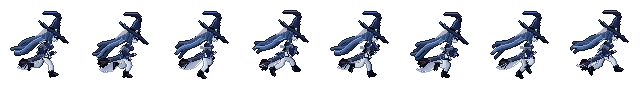
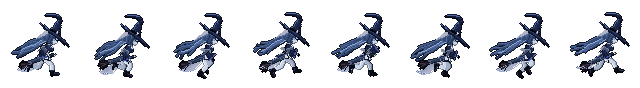
에스카 달리기 무게중심을 낮추고 뒷머리를 더 자연스러운 가닥으로, 대시를 더 낮게 (기획서 0.30)
Claude-Session: https://claude.ai/code/session_014QTsqSnFBNjsgiSz2QVxpP

diff --git a/tools/eska_anim.py b/tools/eska_anim.py
@@ -18,11 +18,11 @@ def lerp(a, b, t):
 
 
 # ---------------------------------------------------------------- 달리기 (8프레임, 질주)
-# 상체를 26° 숙이고 낮게. 다리 역할: 앞다리 F0 착지 → F1 체중 실음(가장 낮음) → F2 밀어냄 → F3 발끝으로 차고 나감(뒤로 길게)
+# 상체를 28° 숙이고 무게중심을 낮게. 다리 역할: 앞다리 F0 착지 → F1 체중 실음(가장 낮음) → F2 밀어냄 → F3 발끝으로 차고 나감(뒤로 길게)
 # / 뒷다리 B0 발꿈치를 차올림 → B1 엉덩이까지 접음 → B2 무릎을 높이 듦 → B3 앞으로 뻗음
-F = [((6.0, 7.5), (7.0, 16.2), -12), ((5.5, 7.0), (1.0, 15.5), 5), ((2.0, 8.8), (-4.0, 16.3), 25), ((-3.0, 8.6), (-11.5, 13.0), 65)]
-B = [((-3.5, 8.3), (-12.0, 8.0), 88), ((1.0, 8.5), (-7.0, 6.0), 92), ((8.5, 3.5), (3.0, 9.5), 45), ((8.5, 4.3), (12.0, 12.0), -8)]
-BOB = [3, 4, 3, 2]
+F = [((7.0, 5.5), (8.0, 13.8), -12), ((6.5, 5.5), (1.5, 13.0), 5), ((2.5, 7.8), (-4.0, 14.0), 25), ((-3.0, 8.0), (-11.5, 12.5), 65)]
+B = [((-4.0, 7.8), (-12.5, 7.0), 88), ((1.0, 8.0), (-7.5, 5.0), 92), ((8.5, 3.0), (3.0, 9.0), 45), ((8.5, 3.8), (12.5, 11.5), -8)]
+BOB = [5, 6, 5, 4]  # 무게중심을 낮게: 엉덩이를 5~6px 내리고 디딤 무릎을 깊게 굽힘
 # 팔: 팔꿈치를 굽혀 크게 흔듦 (가까운 다리가 앞에 닿을 때 가까운 팔은 뒤로)
 ARM = [((-6.0, 4.0), (-5.5, 10.5)), ((-4.0, 6.0), (-1.5, 11.5)), ((-1.0, 7.0), (3.0, 11.0)), ((2.0, 6.5), (6.5, 8.0)),
        ((3.5, 5.5), (7.5, 2.5)), ((2.0, 6.5), (6.5, 8.0)), ((-1.0, 7.0), (3.0, 11.0)), ((-4.0, 6.0), (-1.5, 11.5))]
@@ -37,7 +37,7 @@ def run_frames():
         near, far = (F[ph], B[ph]) if i < 4 else (B[ph], F[ph])
         elbow, wrist = ARM[i]
         fr.append(S.pose(
-            by=BOB[ph], lean_deg=26 + (1 if ph == 1 else 0), near=near, far=far, elbow=elbow, wrist=wrist,
+            by=BOB[ph], lean_deg=28 + (1 if ph == 1 else 0), near=near, far=far, elbow=elbow, wrist=wrist,
             hair=(-8 + w, -6, -17 + 2 * w, -14 + 1.5 * w2), skirt=(0.5, -1.0 + 0.5 * w2, -3.5, -3 - 0.8 * w),
             over=(-15 + 2 * w, -10 + 1.5 * w2), veil=(-10 + w, -5 + w2), sword=20 + 5 * w2, fringe=-5, drip=False))
     return fr
@@ -79,13 +79,13 @@ DJUMP = {
 
 # ---------------------------------------------------------------- 돌진 대시: 몸을 깊이 숙이고 머리·치마·베일이 뒤로 길게 날림
 DASH = {
-    "dash_start": P(by=2, lean_deg=20, near=((6.0, 6.0), (3.0, 14.0), 10), far=((-3.0, 9.0), (-9.0, 15.0), 40),
+    "dash_start": P(by=4, lean_deg=22, near=((7.0, 5.5), (4.0, 13.0), 10), far=((-3.0, 8.0), (-9.5, 13.0), 45),
                     elbow=(-4.0, 4.0), wrist=(-8.0, 7.0), hair=(-6, -3, -12, -8), skirt=(0, -1, -3, -2), over=(-10, -6),
                     veil=(-6, -2), sword=15, fringe=-4),
-    "dash": P(by=4, lean_deg=30, near=((7.0, 5.0), (5.0, 13.0), 0), far=((-5.0, 8.0), (-12.0, 12.0), 60),
+    "dash": P(by=7, lean_deg=34, near=((8.5, 3.5), (8.0, 12.0), 0), far=((-6.0, 6.5), (-14.0, 9.5), 60),
               elbow=(-5.0, 3.0), wrist=(-10.0, 5.0), hair=(-8, -6, -18, -14), skirt=(0, -1.5, -4, -3), over=(-16, -12),
               veil=(-9, -4), sword=25, fringe=-5, drip=False),
-    "dash_end": P(by=1, lean_deg=12, near=((4.0, 8.0), (2.0, 16.5), 0), far=((-2.0, 9.0), (-6.0, 16.0), 30),
+    "dash_end": P(by=3, lean_deg=16, near=((5.0, 6.5), (2.5, 15.5), 0), far=((-2.0, 8.0), (-6.5, 15.0), 30),
                   elbow=(-1.0, 6.5), wrist=(1.5, 12.5), hair=(-4, -2, -8, -6), skirt=(0, -0.5, -1.5, -1), over=(-6, -3),
                   veil=(-3, -1), sword=8, fringe=-2),
 }

diff --git a/tools/eska_sprite.py b/tools/eska_sprite.py
@@ -391,24 +391,29 @@ def hair(p):
         tl = math.hypot(tx, ty) or 1
         return (x, y), (ty / tl, -tx / tl)
     # 가닥: (퍼짐 위치, 길이, 뿌리 폭, 위상 차, 색, 테두리색) — 뒤 가닥부터 그린다
+    # (퍼짐 위치, 길이, 뿌리 폭, 위상 차, 물결 빠르기, 색, 윗면 빛) — 뒤 가닥부터
     STRANDS = [
-        (-2.6, 0.90, 2.0, 0.9, "hair_d", "hair"),
-        (2.2, 0.96, 2.0, 0.3, "hair_d", "hair"),
-        (-1.0, 1.00, 2.4, 0.0, "hair", "hair_l"),
-        (1.0, 0.86, 2.2, 1.6, "hair", "hair_l"),
-        (-3.6, 0.78, 1.6, 2.3, "hair", "hair_l"),
-        (0.0, 0.94, 1.8, 1.1, "hair_l", "hair_h"),
+        (-2.8, 0.86, 1.6, 0.9, 1.0, "hair_d", "hair"),
+        (2.4, 0.93, 1.8, 0.3, 1.1, "hair_d", "hair"),
+        (-0.4, 1.00, 2.2, 0.0, 1.0, "hair", "hair_l"),
+        (1.3, 0.90, 1.9, 1.6, 0.9, "hair", "hair_l"),
+        (-1.8, 0.97, 1.8, 2.6, 1.2, "hair", "hair_l"),
+        (-3.8, 0.74, 1.3, 2.1, 1.3, "hair", "hair_l"),
+        (0.6, 0.82, 1.5, 3.3, 1.1, "hair_l", "hair_h"),
+        (3.2, 0.70, 1.2, 4.0, 1.2, "hair", "hair_l"),
     ]
-    for (off, ln, w0, dph, col, rim) in STRANDS:
+    for (off, ln, w0, dph, fq, col, rim) in STRANDS:
         pts = []
-        n = 18
+        n = 20
         for k in range(n + 1):
             u = k / n * ln
             (x, y), (nx, ny) = at(u)
-            spread = off * (0.3 + 1.6 * u)                       # 끝으로 갈수록 가닥이 벌어짐
-            wave = amp * (u ** 1.2) * math.sin(phase - 2 * math.pi * 1.25 * u + dph)  # 뿌리→끝으로 흐르는 물결
+            spread = off * (0.3 + 1.5 * u)                       # 끝으로 갈수록 가닥이 벌어짐
+            # 뿌리→끝으로 흐르는 물결 두 개를 섞어 규칙적이지 않게 (8프레임에 맞물려 반복)
+            wave = amp * (u ** 1.3) * (0.75 * math.sin(phase - 2 * math.pi * 1.15 * fq * u + dph)
+                                       + 0.35 * math.sin(0.5 * phase - 2 * math.pi * 2.0 * u + 2 * dph))
             pts.append((x + nx * (spread + wave), y + ny * (spread + wave)))
-        cells = tube(pts, lambda t, w0=w0: max(0.8, w0 * (1 - t) ** 0.9 + 0.5))
+        cells = tube(pts, lambda t, w0=w0: max(0.6, w0 * (1 - t) ** 1.1 + 0.45))  # 끝은 1px로 가늘게
         paint(cells, col, top=rim)
     # 머리 뒤 뿌리 덩어리 (가닥들이 시작되는 곳을 메움) + 어깨 뒤 윤기
     root_cells = tube([root, at(0.18)[0]], lambda t: 5.0 - 1.4 * t)

diff --git a/docs/gdd/10-art-direction.md b/docs/gdd/10-art-direction.md
@@ -51,9 +51,9 @@
 - 이미지 생성 프롬프트(디자인 앵커 포함): [`../art/eska-design-prompts.txt`](../art/eska-design-prompts.txt)
 - **디자인 시트 기준안: [`assets/eska-sheet-v3.png`](assets/eska-sheet-v3.png)** — 얀데레풍 외형·빗자루 검까지 반영된 현재 기준
 - 게임 스프라이트 (사이드뷰, 코드로 찍은 도트 — 리그 `tools/eska_sprite.py`, 동작 정의 `tools/eska_anim.py`): 전체 시트 [`../art/eska/sheet.png`](../art/eska/sheet.png) · 이름표 붙은 3배 미리보기 [`../art/eska/sheet_preview.png`](../art/eska/sheet_preview.png) · 움직이는 미리보기 [`run.gif`](../art/eska/run.gif) [`jump.gif`](../art/eska/jump.gif) [`double_jump.gif`](../art/eska/double_jump.gif) [`dash.gif`](../art/eska/dash.gif). [시도 중]
-  - 동작: 대기 1, 달리기 8(질주: 상체 26° 숙임·몸을 낮춤, 큰 보폭·뒷발꿈치를 엉덩이까지 차올림·무릎 높이, 머리·베일·겉치마가 거의 수평으로 날림, 프레임당 40ms, 착지 먼지·속도선은 효과 층), 점프 7(이륙·상승 2·정점·하강 2·착지), 이단점프 3(웅크림·마법진 딛기·솟구침, 마법진 효과는 별도 층), 대시 3(시작·돌진·마무리, 잔상은 별도 층). 한 칸 80×88px, 발밑 기준점 칸 좌표 (44, 77).
+  - 동작: 대기 1, 달리기 8(질주: 상체 28° 숙임·엉덩이를 5~6px 내려 무게중심을 낮게, 디딤 무릎을 깊게 굽힘, 큰 보폭·뒷발꿈치를 엉덩이까지 차올림·무릎 높이, 머리·베일·겉치마가 거의 수평으로 날림, 프레임당 40ms, 착지 먼지·속도선은 효과 층), 점프 7(이륙·상승 2·정점·하강 2·착지), 이단점프 3(웅크림·마법진 딛기·솟구침, 마법진 효과는 별도 층), 대시 3(시작·돌진·마무리, 잔상은 별도 층). 한 칸 80×88px, 발밑 기준점 칸 좌표 (44, 77).
   - 몸 52px(정수리~발바닥), 모자 포함 약 74px. 허리 폭 4px의 가는 체형, 각지게 꺾여 가는 끝이 뒤로 처지는 날카로운 모자, 옆머리로 볼을 가린 작은 얼굴. 뒤에서 오는 차가운 역광, 셀아웃 외곽선.
-  - 리그 구조: 상체·머리·모자는 손으로 찍은 픽셀을 통째로 옮기거나 엉덩이를 축으로 숙이고(RotSprite 방식 회전 — Scale2x 세 번으로 8배 키워 돌린 뒤 줄여 선이 깨지지 않게, 대시 30°), 다리·팔·뒷머리·치마·겉치마·베일·검집은 관절 위치와 휘날림 값으로 프레임마다 계산한다. 뒷머리는 한 덩어리가 아니라 가닥 6개 — 끝으로 갈수록 벌어지고, 물결이 뿌리에서 끝으로 시간차를 두고 흘러 찰랑인다(동작별 진폭, 4프레임에 물결 하나). 상승 땐 머리카락·치마가 아래로 끌리고, 정점부터 바람 없이 떠오르며, 대시 땐 뒤로 길게 날린다.
+  - 리그 구조: 상체·머리·모자는 손으로 찍은 픽셀을 통째로 옮기거나 엉덩이를 축으로 숙이고(RotSprite 방식 회전 — Scale2x 세 번으로 8배 키워 돌린 뒤 줄여 선이 깨지지 않게, 대시 34°·엉덩이 7px 내림), 다리·팔·뒷머리·치마·겉치마·베일·검집은 관절 위치와 휘날림 값으로 프레임마다 계산한다. 뒷머리는 한 덩어리가 아니라 가늘고 끝이 1px로 뾰족한 가닥 8개 — 끝으로 갈수록 벌어지고, 박자가 다른 물결 두 개가 뿌리에서 끝으로 시간차를 두고 흘러 불규칙하게 찰랑인다(가닥마다 길이·박자가 다름, 동작별 진폭). 상승 땐 머리카락·치마가 아래로 끌리고, 정점부터 바람 없이 떠오르며, 대시 땐 뒤로 길게 날린다.
 - 디자인 시트 2차: [`assets/eska-sheet-v2.webp`](assets/eska-sheet-v2.webp) — 레이피어 시절 (비교용)
 - 디자인 시트 1차 생성본: [`assets/eska-sheet-v1.webp`](assets/eska-sheet-v1.webp) — 신비감 보완 전 (비교용)
 - **무기 형태 기준: [`assets/concept-witch-weapon-draft.png`](assets/concept-witch-weapon-draft.png)** — 검·검집 형태를 따른다 (색·캐릭터 디자인은 위 확정안을 따름)

diff --git a/docs/gdd/19-appendix.md b/docs/gdd/19-appendix.md
@@ -112,3 +112,4 @@
 | 0.27 | 2026-10-25 | 주인공 스프라이트를 리그로 재구성하고 달리기·점프·이단점프(마법진)·대시 프레임 추가 (10, 19장) | |
 | 0.28 | 2026-10-25 | 달리기를 상체를 숙인 질주로 변경, 상체 숙임을 회전(RotSprite)으로, 대시 30° (10, 19장) | |
 | 0.29 | 2026-10-25 | 뒷머리를 흐르는 가닥으로, 달리기 속도감 강화(26°, 40ms, 속도선) (10, 19장) | |
+| 0.30 | 2026-10-25 | 달리기 무게중심을 낮춤(28°), 뒷머리 가닥 8개·불규칙 물결, 대시 34° (10, 19장) | |

diff --git a/docs/gdd/README.md b/docs/gdd/README.md
@@ -1,6 +1,6 @@
 # [가제] 다크판타지 2D 사이드뷰 게임 — 게임 기획서(GDD)
 
-> 문서 버전: 0.29 · 작성 시작: 2026-10-25
+> 문서 버전: 0.30 · 작성 시작: 2026-10-25
 > 이 폴더는 업계 표준 GDD 19개 섹션을 **섹션별 파일**로 나눈 것이다. 섹션 단위로 채우고 수정 이력을 git으로 추적한다.
 
 ## 상태 표기 규칙
